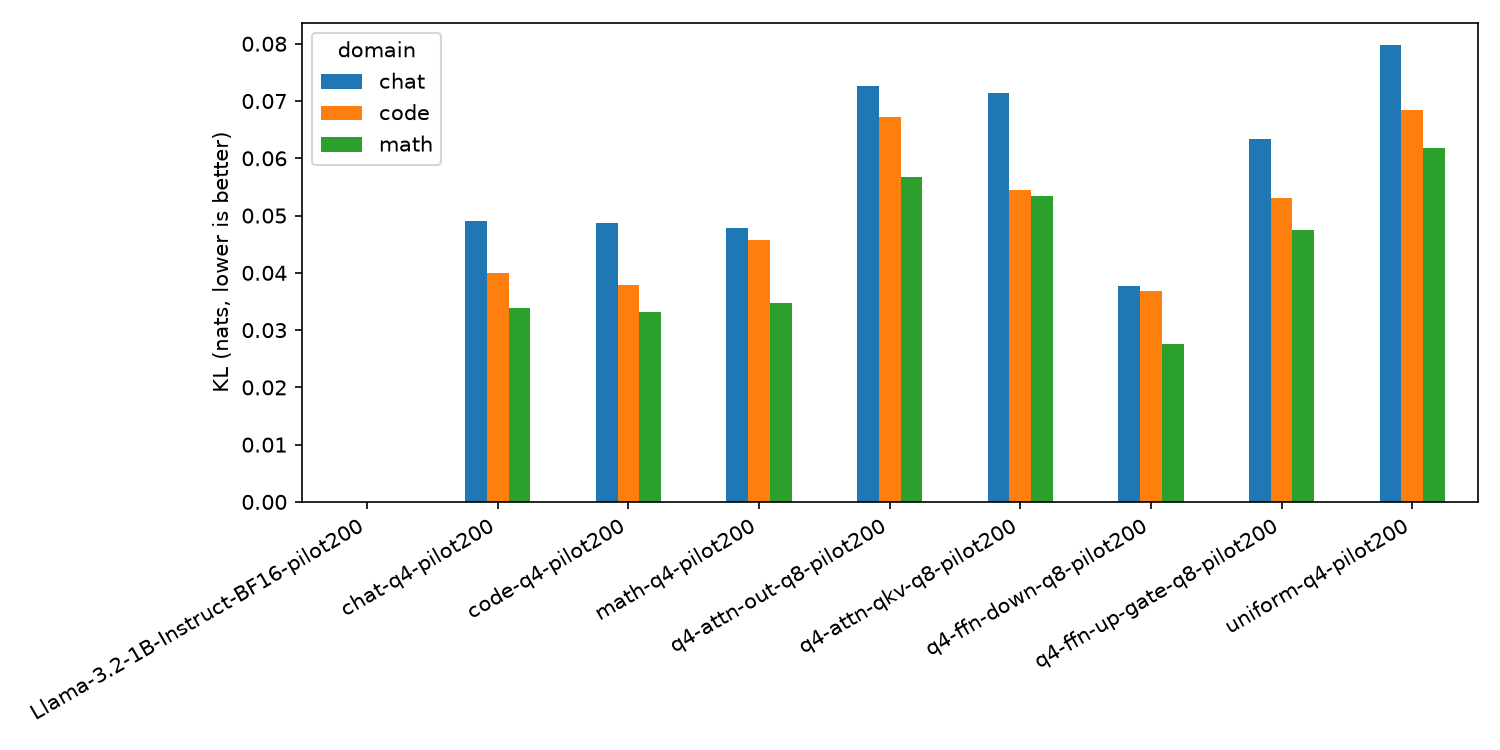
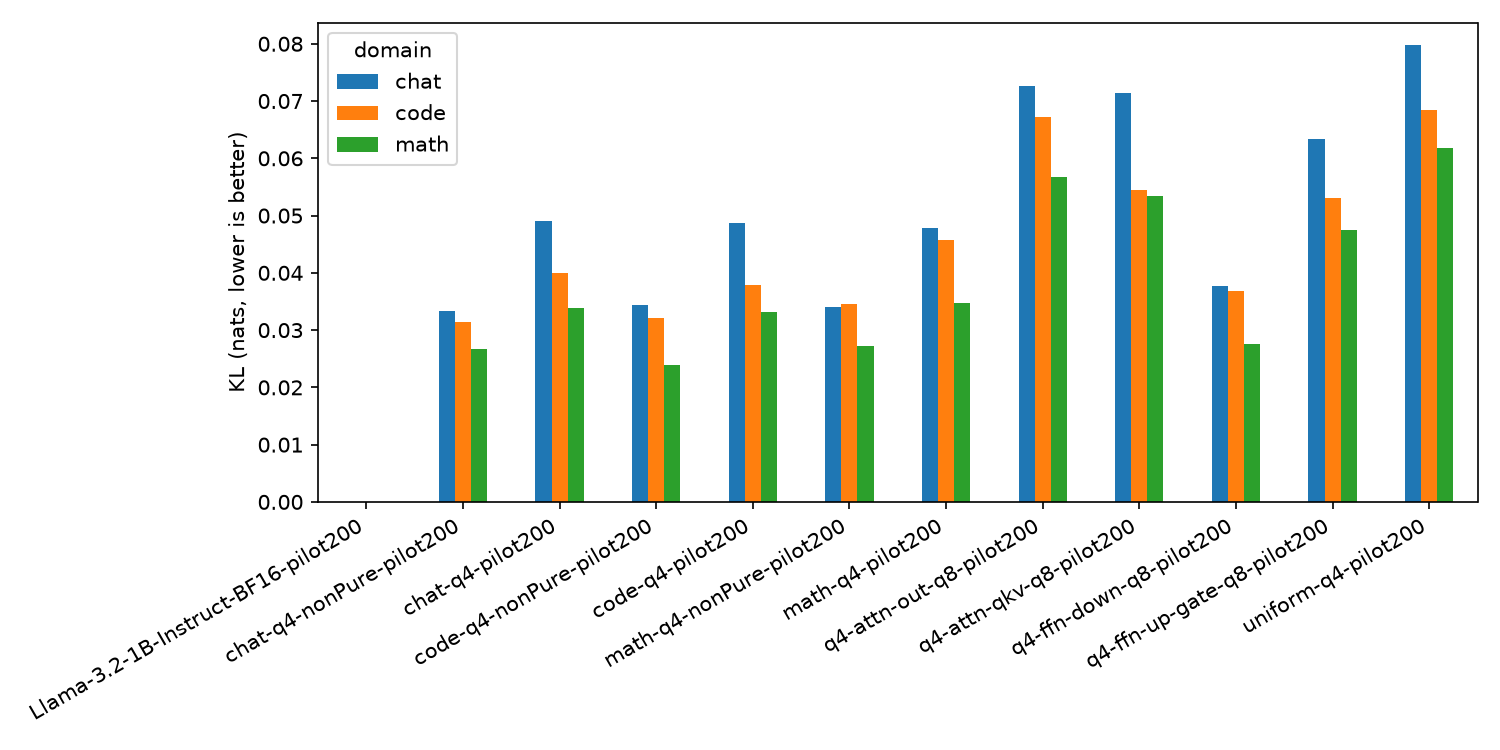
Run Imatrix Test with Mixed Precision

diff --git a/src/quantize.py b/src/quantize.py
@@ -13,7 +13,7 @@ def quantize_model(
     output_model: Path,
     quant_type: str = "Q4_K_M",
     imatrix_file: Path | None = None,
-    pure: bool = True, # This makes it truly uniform instead of llama.cpp's default K-quant mix.
+    pure: bool = False, # This makes it truly uniform instead of llama.cpp's default K-quant mix.
     tensor_types: list[str] | None = None,  # e.g. ["attn_q=q8_0"]
     output_type: str | None = None,         # type for output.weight, e.g. "q8_0"
 ) -> None:
@@ -23,9 +23,6 @@ def quantize_model(
 
     if not source_model.exists():
         raise FileNotFoundError(f"Source model not found: {source_model}")
-
-    if imatrix_file is not None and not imatrix_file.exists():
-        raise FileNotFoundError(f"Imatrix file not found: {imatrix_file}")
 
     output_model.parent.mkdir(parents=True, exist_ok=True)
 
@@ -61,25 +58,24 @@ if __name__ == "__main__":
     # uniform Q4 baseline: no imatrix.
 if __name__ == "__main__":
     cfg = Config()
+    quantize_model(cfg.quantize_tool, cfg.source_model, cfg.models_dir / "chat-q4-nonPure.gguf", "Q4_K_M", pure=False,imatrix_file='CMSC473-Exploring-Quantization-Stability-using-Llama.cpp\models\imatrix\chat.imatrix.gguf')
+    quantize_model(cfg.quantize_tool, cfg.source_model, cfg.models_dir / "code-q4-nonPure.gguf", "Q4_K_M", pure=False,imatrix_file='CMSC473-Exploring-Quantization-Stability-using-Llama.cpp\models\imatrix\code.imatrix.gguf')
+    quantize_model(cfg.quantize_tool, cfg.source_model, cfg.models_dir / "math-q4-nonPure.gguf", "Q4_K_M", pure=False,imatrix_file='CMSC473-Exploring-Quantization-Stability-using-Llama.cpp\models\imatrix\math.imatrix.gguf')
+    # # All start as uniform Q4, then one tensor family goes to Q8.
+    # quantize_model(
+    #     cfg.quantize_tool, cfg.source_model, cfg.models_dir / "q4-attn-qkv-q8.gguf", "Q4_K_M",
+    #     tensor_types=["attn_q=q8_0", "attn_k=q8_0", "attn_v=q8_0"],
+    # )
+    # quantize_model(
+    #     cfg.quantize_tool, cfg.source_model, cfg.models_dir / "q4-attn-out-q8.gguf", "Q4_K_M",
+    #     tensor_types=["attn_output=q8_0"],
+    # )
+    # quantize_model(
+    #     cfg.quantize_tool, cfg.source_model, cfg.models_dir / "q4-ffn-up-gate-q8.gguf", "Q4_K_M",
+    #     tensor_types=["ffn_up=q8_0", "ffn_gate=q8_0"],
+    # )
+    # quantize_model(
+    #     cfg.quantize_tool, cfg.source_model, cfg.models_dir / "q4-ffn-down-q8.gguf", "Q4_K_M",
+    #     tensor_types=["ffn_down=q8_0"],
+    # )
 
-    # All start as uniform Q4, then one tensor family goes to Q8.
-    quantize_model(
-        cfg.quantize_tool, cfg.source_model, cfg.models_dir / "q4-attn-qkv-q8.gguf", "Q4_K_M",
-        tensor_types=["attn_q=q8_0", "attn_k=q8_0", "attn_v=q8_0"],
-    )
-    quantize_model(
-        cfg.quantize_tool, cfg.source_model, cfg.models_dir / "q4-attn-out-q8.gguf", "Q4_K_M",
-        tensor_types=["attn_output=q8_0"],
-    )
-    quantize_model(
-        cfg.quantize_tool, cfg.source_model, cfg.models_dir / "q4-ffn-up-gate-q8.gguf", "Q4_K_M",
-        tensor_types=["ffn_up=q8_0", "ffn_gate=q8_0"],
-    )
-    quantize_model(
-        cfg.quantize_tool, cfg.source_model, cfg.models_dir / "q4-ffn-down-q8.gguf", "Q4_K_M",
-        tensor_types=["ffn_down=q8_0"],
-    )
-    quantize_model(
-        cfg.quantize_tool, cfg.source_model, cfg.models_dir / "q4-lm-head-q8.gguf", "Q4_K_M",
-        output_type="q8_0",
-    )

diff --git a/run_evaluation.py b/run_evaluation.py
@@ -14,15 +14,9 @@ BASE = Config(
 )
 
 MODELS = [
-    "Llama-3.2-1B-Instruct-BF16",
-    "uniform-q4",
-    "chat-q4",
-    "math-q4",
-    "code-q4",
-    "q4-attn-out-q8",
-    "q4-attn-qkv-q8",
-    "q4-ffn-up-gate-q8",
-    "q4-ffn-down-q8",
+    "chat-q4-nonPure",
+    "math-q4-nonPure",
+    "code-q4-nonPure",
 ]
 
 CONFIGS = [
